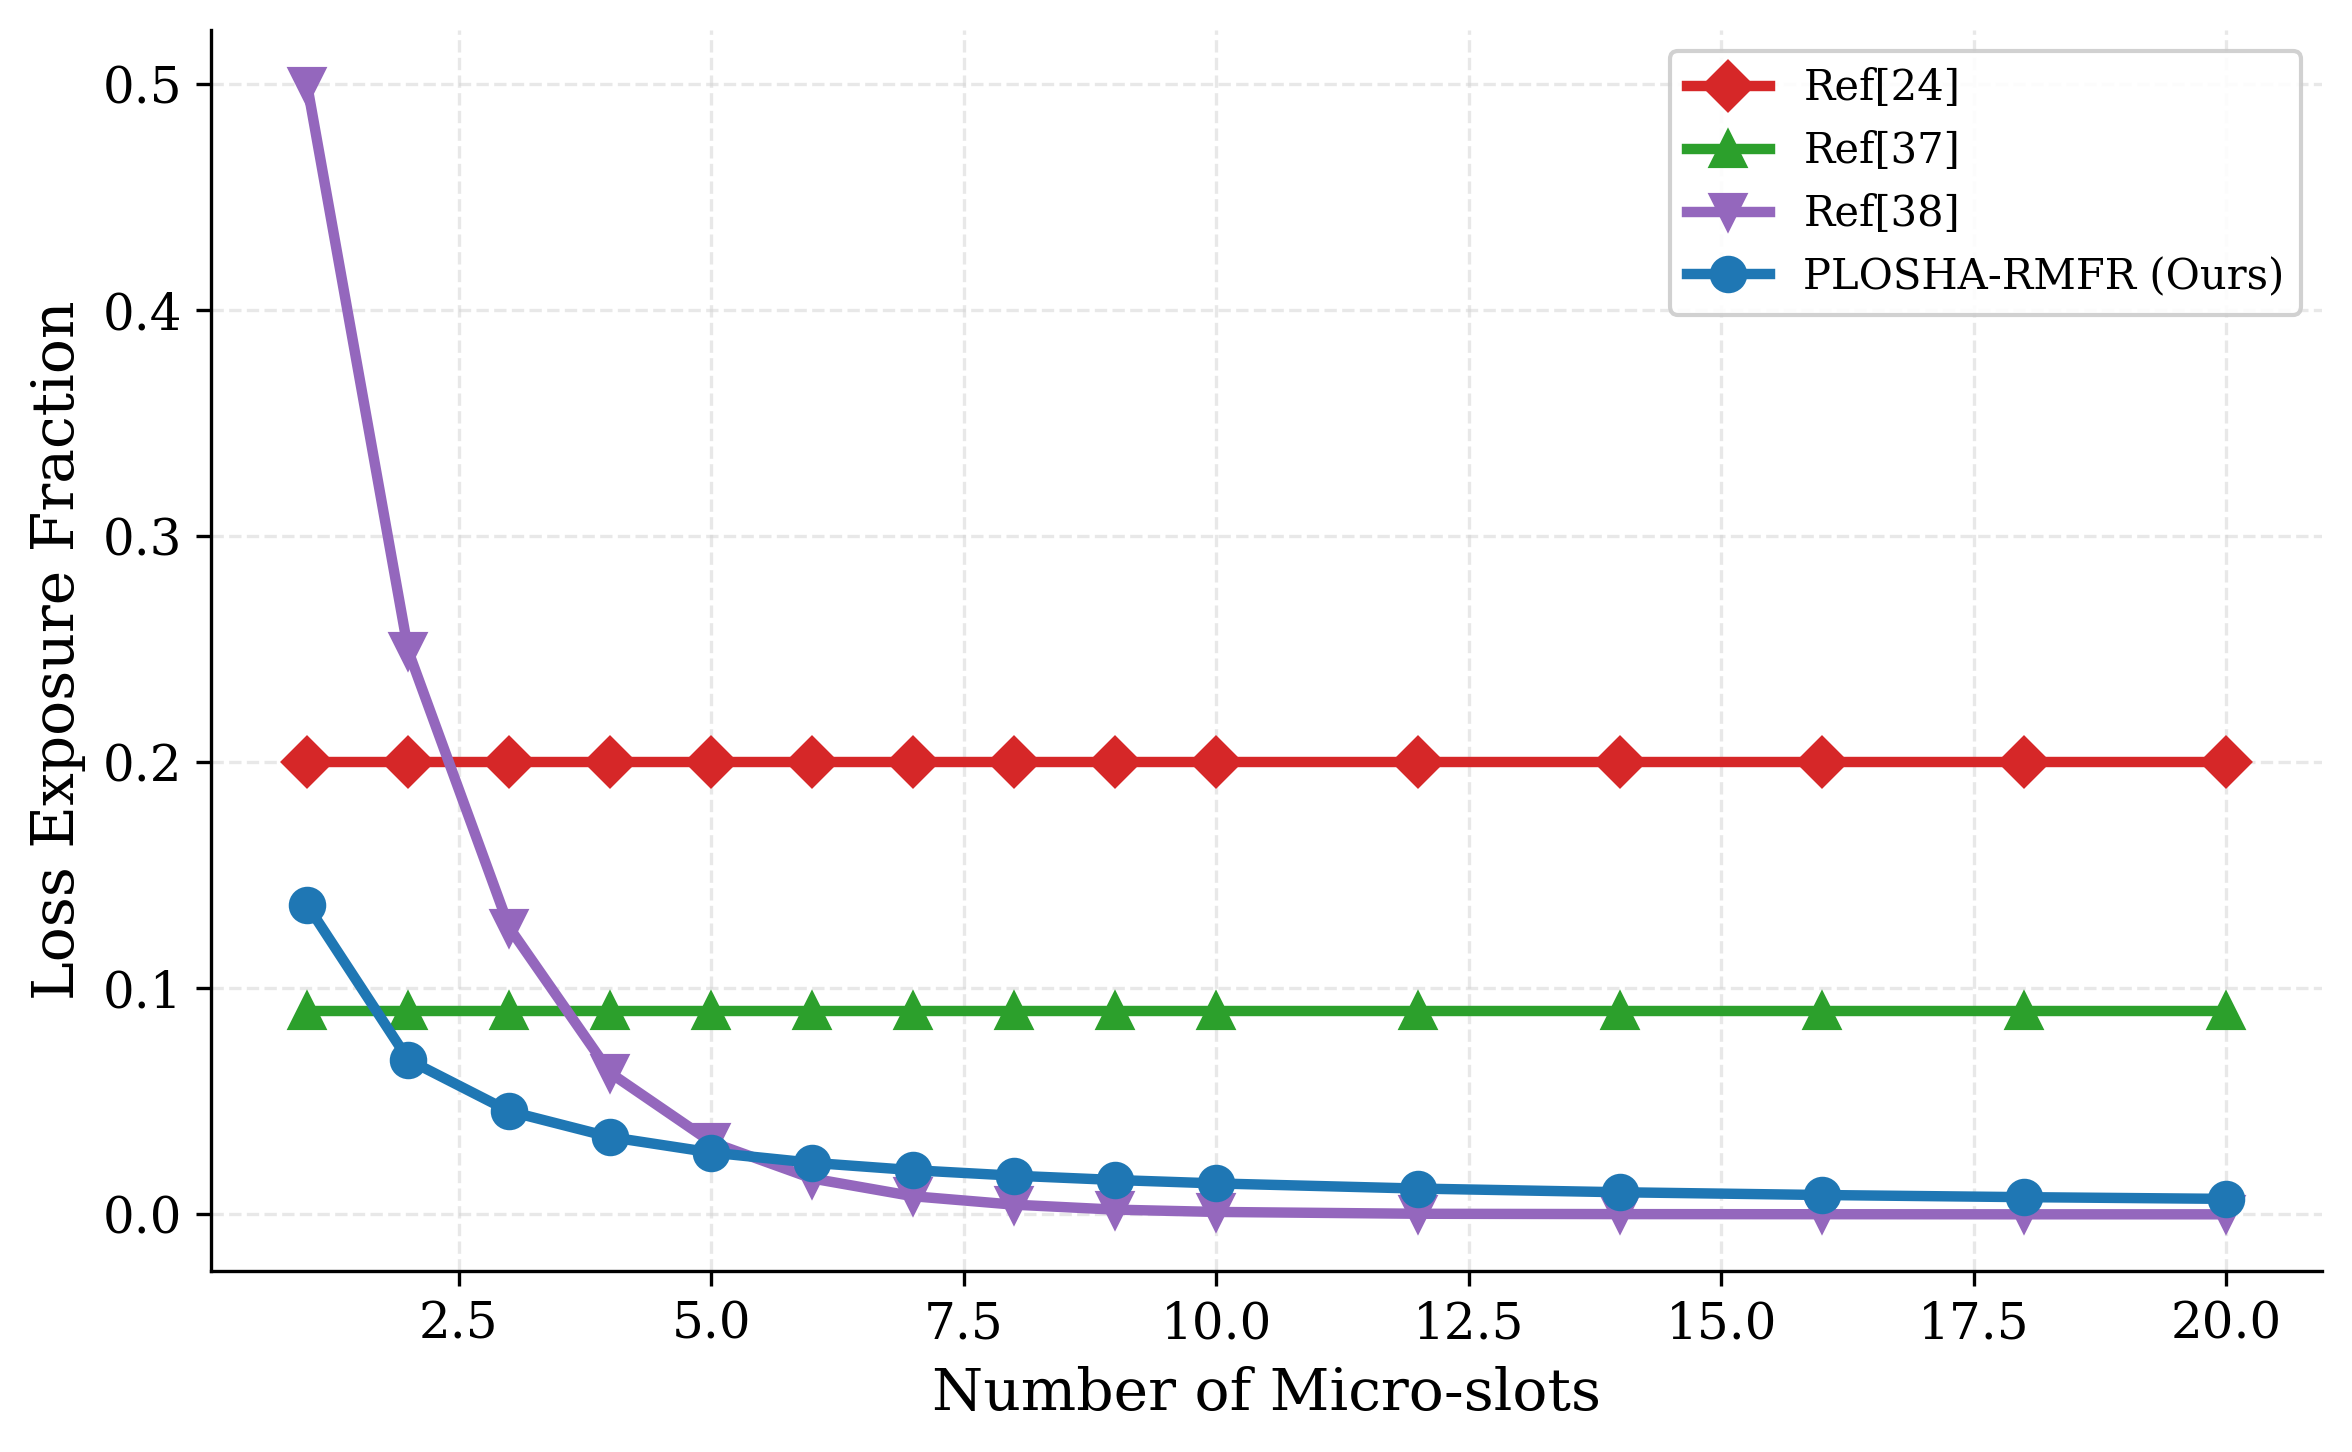
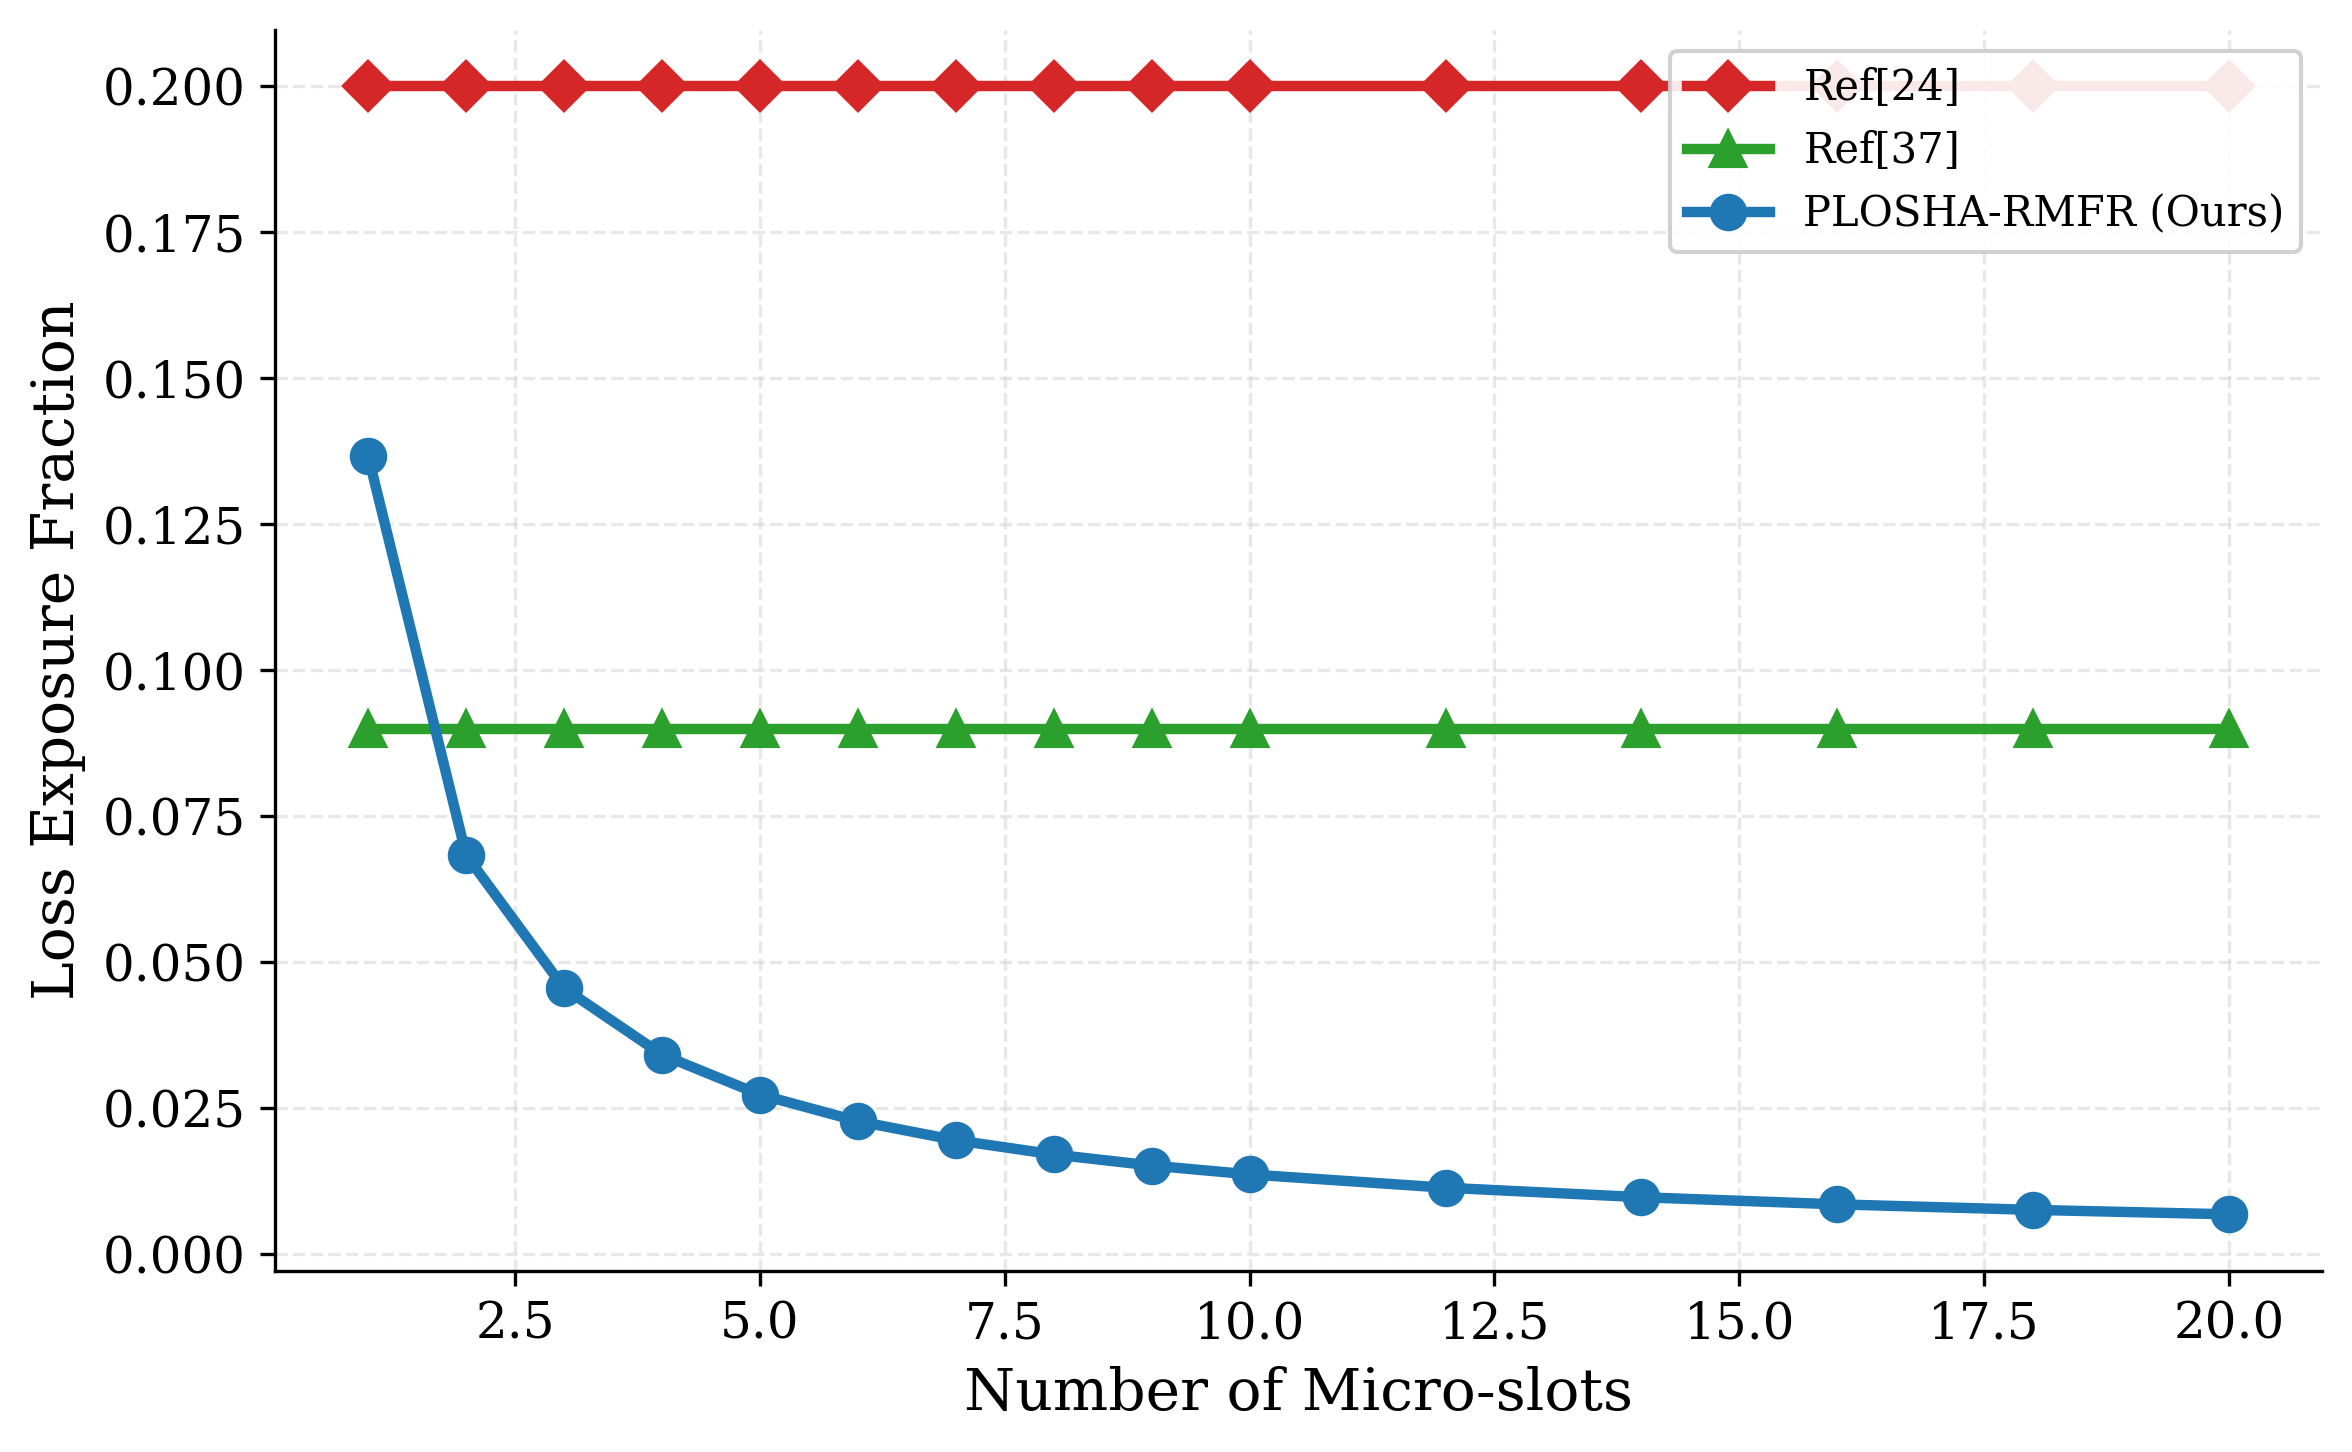
pls last time

diff --git a/plots/generate_plots.py b/plots/generate_plots.py
@@ -165,7 +165,8 @@ def main():
                     x_col='micro_slots', y_col='loss_exposure_fraction',
                     x_label='Number of Micro-slots', y_label='Loss Exposure Fraction',
                     output_filename='graph4_loss_exposure.png',
-                    legend_loc='upper right')
+                    legend_loc='upper right',
+                    exclude_schemes=['ft_serverless_edge'])
 
     # Graph 5: Recovery Communication
     plot_experiment('exp5_recovery_comm',